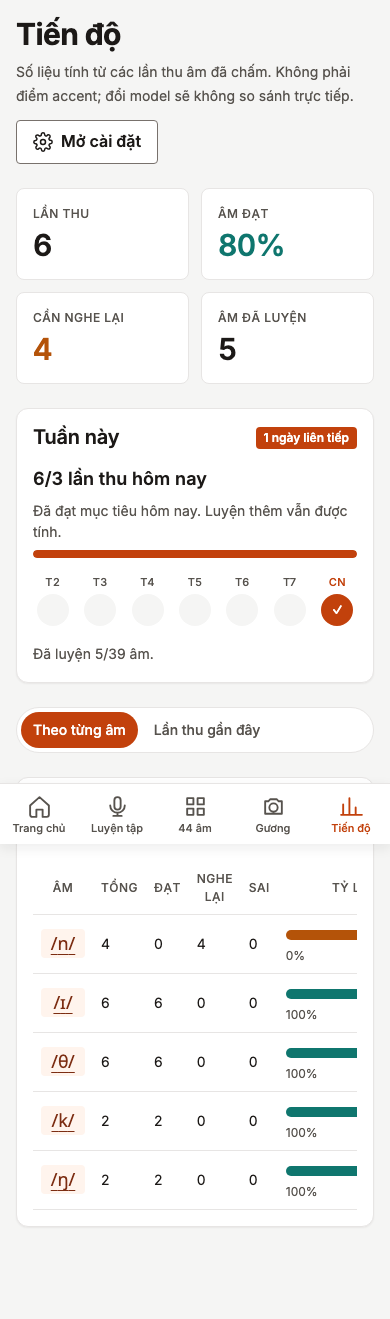
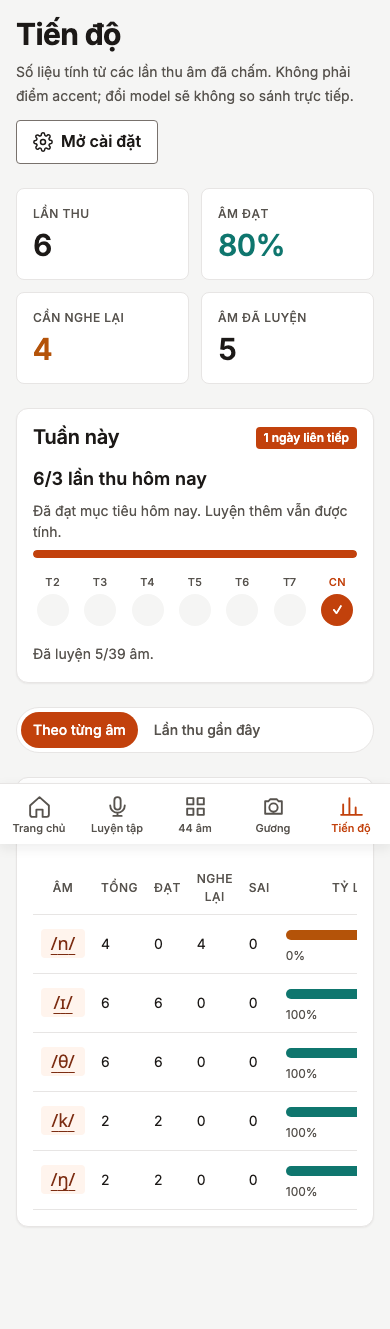
feat(web): 44 px tabs and IPA links on touch screens; record the mobile overhaul results

diff --git a/web/src/styles/base/touch.css b/web/src/styles/base/touch.css
@@ -51,8 +51,15 @@ summary:active,
 }
 
 @media (pointer: coarse) {
-  .button--small {
+  .button--small,
+  .tabs__tab,
+  .ipa-pill:any-link {
     min-block-size: var(--size-touch-target);
+  }
+
+  .ipa-pill:any-link {
+    display: inline-flex;
+    align-items: center;
   }
 
   input,

diff --git a/docs/design/mobile-ux-overhaul.md b/docs/design/mobile-ux-overhaul.md
@@ -31,3 +31,21 @@ Ngày 2026-10-18. Phản hồi của chủ dự án sau khi dùng trên iPhone: 
 4. **Gương có ghi âm**: nút mic trên camera, chấm âm đích + khẩu hình trong lúc nói, kết luận gộp, đếm 3 lần đạt liên tiếp.
 5. **Danh sách gọn**: lưới 44 âm dày với sheet chi tiết; lộ trình dạng hàng đơn vị + sheet 5 bước; tiến độ và cài đặt dạng nhóm hàng kiểu iOS.
 6. **Kiểm chứng**: đo lại bảng trên (mục tiêu: trang không phải danh sách ≤ 1,2 màn; 0 nút < 44 px), e2e, axe, ảnh chụp trước/sau, cài lên iPhone.
+
+## Kết quả (2026-10-18)
+
+| Trang                              | Trước (màn) | Sau (màn) | Cách làm                                                        |
+| ---------------------------------- | ----------- | --------- | --------------------------------------------------------------- |
+| Trang chủ                          | 3,1         | 1,0       | "Hôm nay": vòng mục tiêu, thẻ Tiếp tục, âm cần luyện, 4 lối tắt |
+| Luyện tập (danh sách)              | 4,6         | 1,0       | Lưới ô dày, phân đoạn Nguyên âm / Phụ âm                        |
+| Bảng 44 âm                         | 4,6         | 1,6       | Lưới 5 cột, chi tiết âm mở trong sheet                          |
+| Chi tiết âm                        | 5,3         | 1,6       | Sheet thay vì kéo dài trang                                     |
+| Tiến độ                            | 2,4         | 1,6       | Phân đoạn "Theo từng âm" / "Lần thu gần đây"                    |
+| Cài đặt                            | 3,9         | 1,2       | Hàng nhóm kiểu iOS, mỗi mục mở sheet                            |
+| Lộ trình                           | 2,3         | 1,2       | Hàng đơn vị, 5 bước mở trong sheet                              |
+| Khóa 14 ngày                       | 2,6         | 1,9       | Hàng ngày, mục luyện mở trong sheet                             |
+| Gương, Hiệu chỉnh, Luyện tập, Nghe | 1,0         | 1,0       | Trình phát bài học toàn màn, không thanh tab                    |
+
+Gương có ghi âm: một lần chỉ đạt khi âm đích đúng **và** (với âm camera thấy được) khẩu hình được nhìn thấy và nằm trong vùng mục tiêu ≥ 30 % thời gian nói; 3 lần đạt liên tiếp là "đã nắm được âm". Kiểm chứng: `make ci` (backend 113 test, web 118 test), e2e 60/60 gồm axe.
+
+Còn lại cần kiểm tra trên iPhone thật: cảm giác rung khi chạm, độ trùng của bóng mờ, ngưỡng 30 % khẩu hình.

diff --git a/CHANGELOG.md b/CHANGELOG.md
@@ -6,6 +6,9 @@ Theo [Keep a Changelog](https://keepachangelog.com/vi/1.1.0/); phiên bản theo
 
 ### Thêm
 
+- Trải nghiệm di động làm lại (`docs/design/mobile-ux-overhaul.md`): chạm kiểu app (trạng thái nhấn, không trễ, vùng chạm 44 px, rung nhẹ trong app iOS); bỏ thanh thương hiệu trên điện thoại; trình phát bài học toàn màn có nút đóng cho Luyện tập, Nghe, Hiệu chỉnh, màn bắt đầu; trang chủ "Hôm nay" vừa một màn; danh sách dày với sheet cho 44 âm, lộ trình, khóa 14 ngày, cài đặt và tiến độ.
+- Gương có "Nói thử": chấm âm đích và khẩu hình cùng lúc, 3 lần đúng liên tiếp mới tính là nắm được âm.
+
 - Màn Gương làm lại cho điện thoại theo mẫu ứng dụng camera (`docs/design/mobile-mirror.md`): camera cạnh-sát-cạnh, "bóng mờ" mẫu môi căn theo miệng thật, vòng điểm khớp 0–100 % ba màu, một gợi ý chỉnh duy nhất bằng câu tự nhiên, chip trạng thái từng đặc trưng, chi tiết thu gọn, sheet chọn âm 44 âm có tìm kiếm; rung và âm báo khi giữ đúng. Hiệu chỉnh dùng cùng sân khấu camera. Trên điện thoại, màn camera ẩn header/footer; các màn khác bỏ footer (link chính sách nằm trong Cài đặt).
 - Lộ trình phát âm chuẩn (`content/curriculum.json`, `GET /curriculum`, trang `/curriculum/`): cấp 1 với 6 đơn vị, mỗi đơn vị 5 bước (xem khẩu hình, nghe phân biệt, luyện có chấm, shadowing, hội thoại); tiến độ theo hồ sơ; nội dung được kiểm tra chéo với âm, cặp và câu khi khởi động.
 - Bài nghe phân biệt (`/listen/?unit=…`, chạy offline): nghe chọn từ trong cặp tối thiểu, chọn âm tiết mạnh, chọn từ trọng tâm; phản hồi tức thì, tổng kết độ chính xác lưu trên máy và hiện ở bước 2 của đơn vị.
